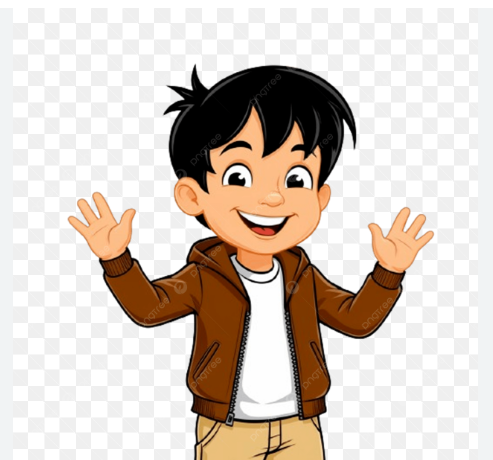
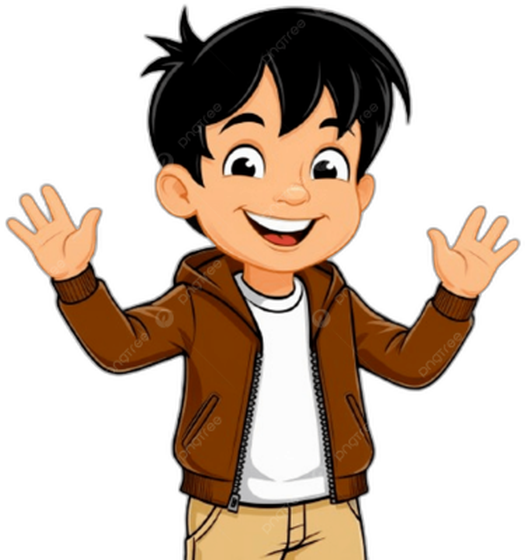
Welcome redesign: clean transparent mascot + lively animation

diff --git a/app/components/BiteAgentIntro.tsx b/app/components/BiteAgentIntro.tsx
@@ -182,9 +182,11 @@ export default function BiteAgentIntro({
 .intro-glow{position:absolute;top:8%;left:50%;transform:translateX(-50%);width:220px;height:220px;border-radius:50%;
   background:radial-gradient(circle,rgba(76,175,80,.5),transparent 66%)}
 .intro-avatar{position:relative;max-height:220px;width:auto;object-fit:contain;
-  filter:drop-shadow(0 16px 26px rgba(0,0,0,.4));animation:bob 3.4s ease-in-out infinite;
-  transform:translateY(14px) scale(.9);opacity:0;transition:transform .6s cubic-bezier(.2,.8,.2,1),opacity .6s}
-.intro-wrap.in .intro-avatar{transform:translateY(0) scale(1);opacity:1}
+  filter:drop-shadow(0 16px 26px rgba(0,0,0,.4));
+  animation:mascotLife 4s ease-in-out infinite;
+  transform-origin:bottom center;
+  opacity:0;transition:opacity .6s}
+.intro-wrap.in .intro-avatar{opacity:1}
 .intro-avatar-fallback{display:flex;align-items:flex-end;justify-content:center;font-size:150px;line-height:1;
   position:relative;animation:bob 3.4s ease-in-out infinite}
 .intro-badge{position:absolute;bottom:-2px;left:50%;transform:translateX(-50%);display:flex;align-items:center;gap:7px;
@@ -220,6 +222,13 @@ export default function BiteAgentIntro({
   letter-spacing:1.5px;text-transform:uppercase;margin-top:16px}
 
 @keyframes bob{0%,100%{transform:translateY(0)}50%{transform:translateY(-8px)}}
+@keyframes mascotLife{
+  0%   {transform:translateY(0)   rotate(0deg)   scale(1)}
+  25%  {transform:translateY(-6px) rotate(-1.5deg) scale(1.01)}
+  50%  {transform:translateY(-9px) rotate(0deg)   scale(1.015)}
+  75%  {transform:translateY(-6px) rotate(1.5deg)  scale(1.01)}
+  100% {transform:translateY(0)   rotate(0deg)   scale(1)}
+}
 @keyframes wave{0%,60%,100%{transform:rotate(0)}30%{transform:rotate(18deg)}}
 @keyframes spin{to{transform:translateX(-50%) rotate(360deg)}}
 @keyframes drift{0%,100%{transform:translate(0,0)}50%{transform:translate(14px,-16px)}}